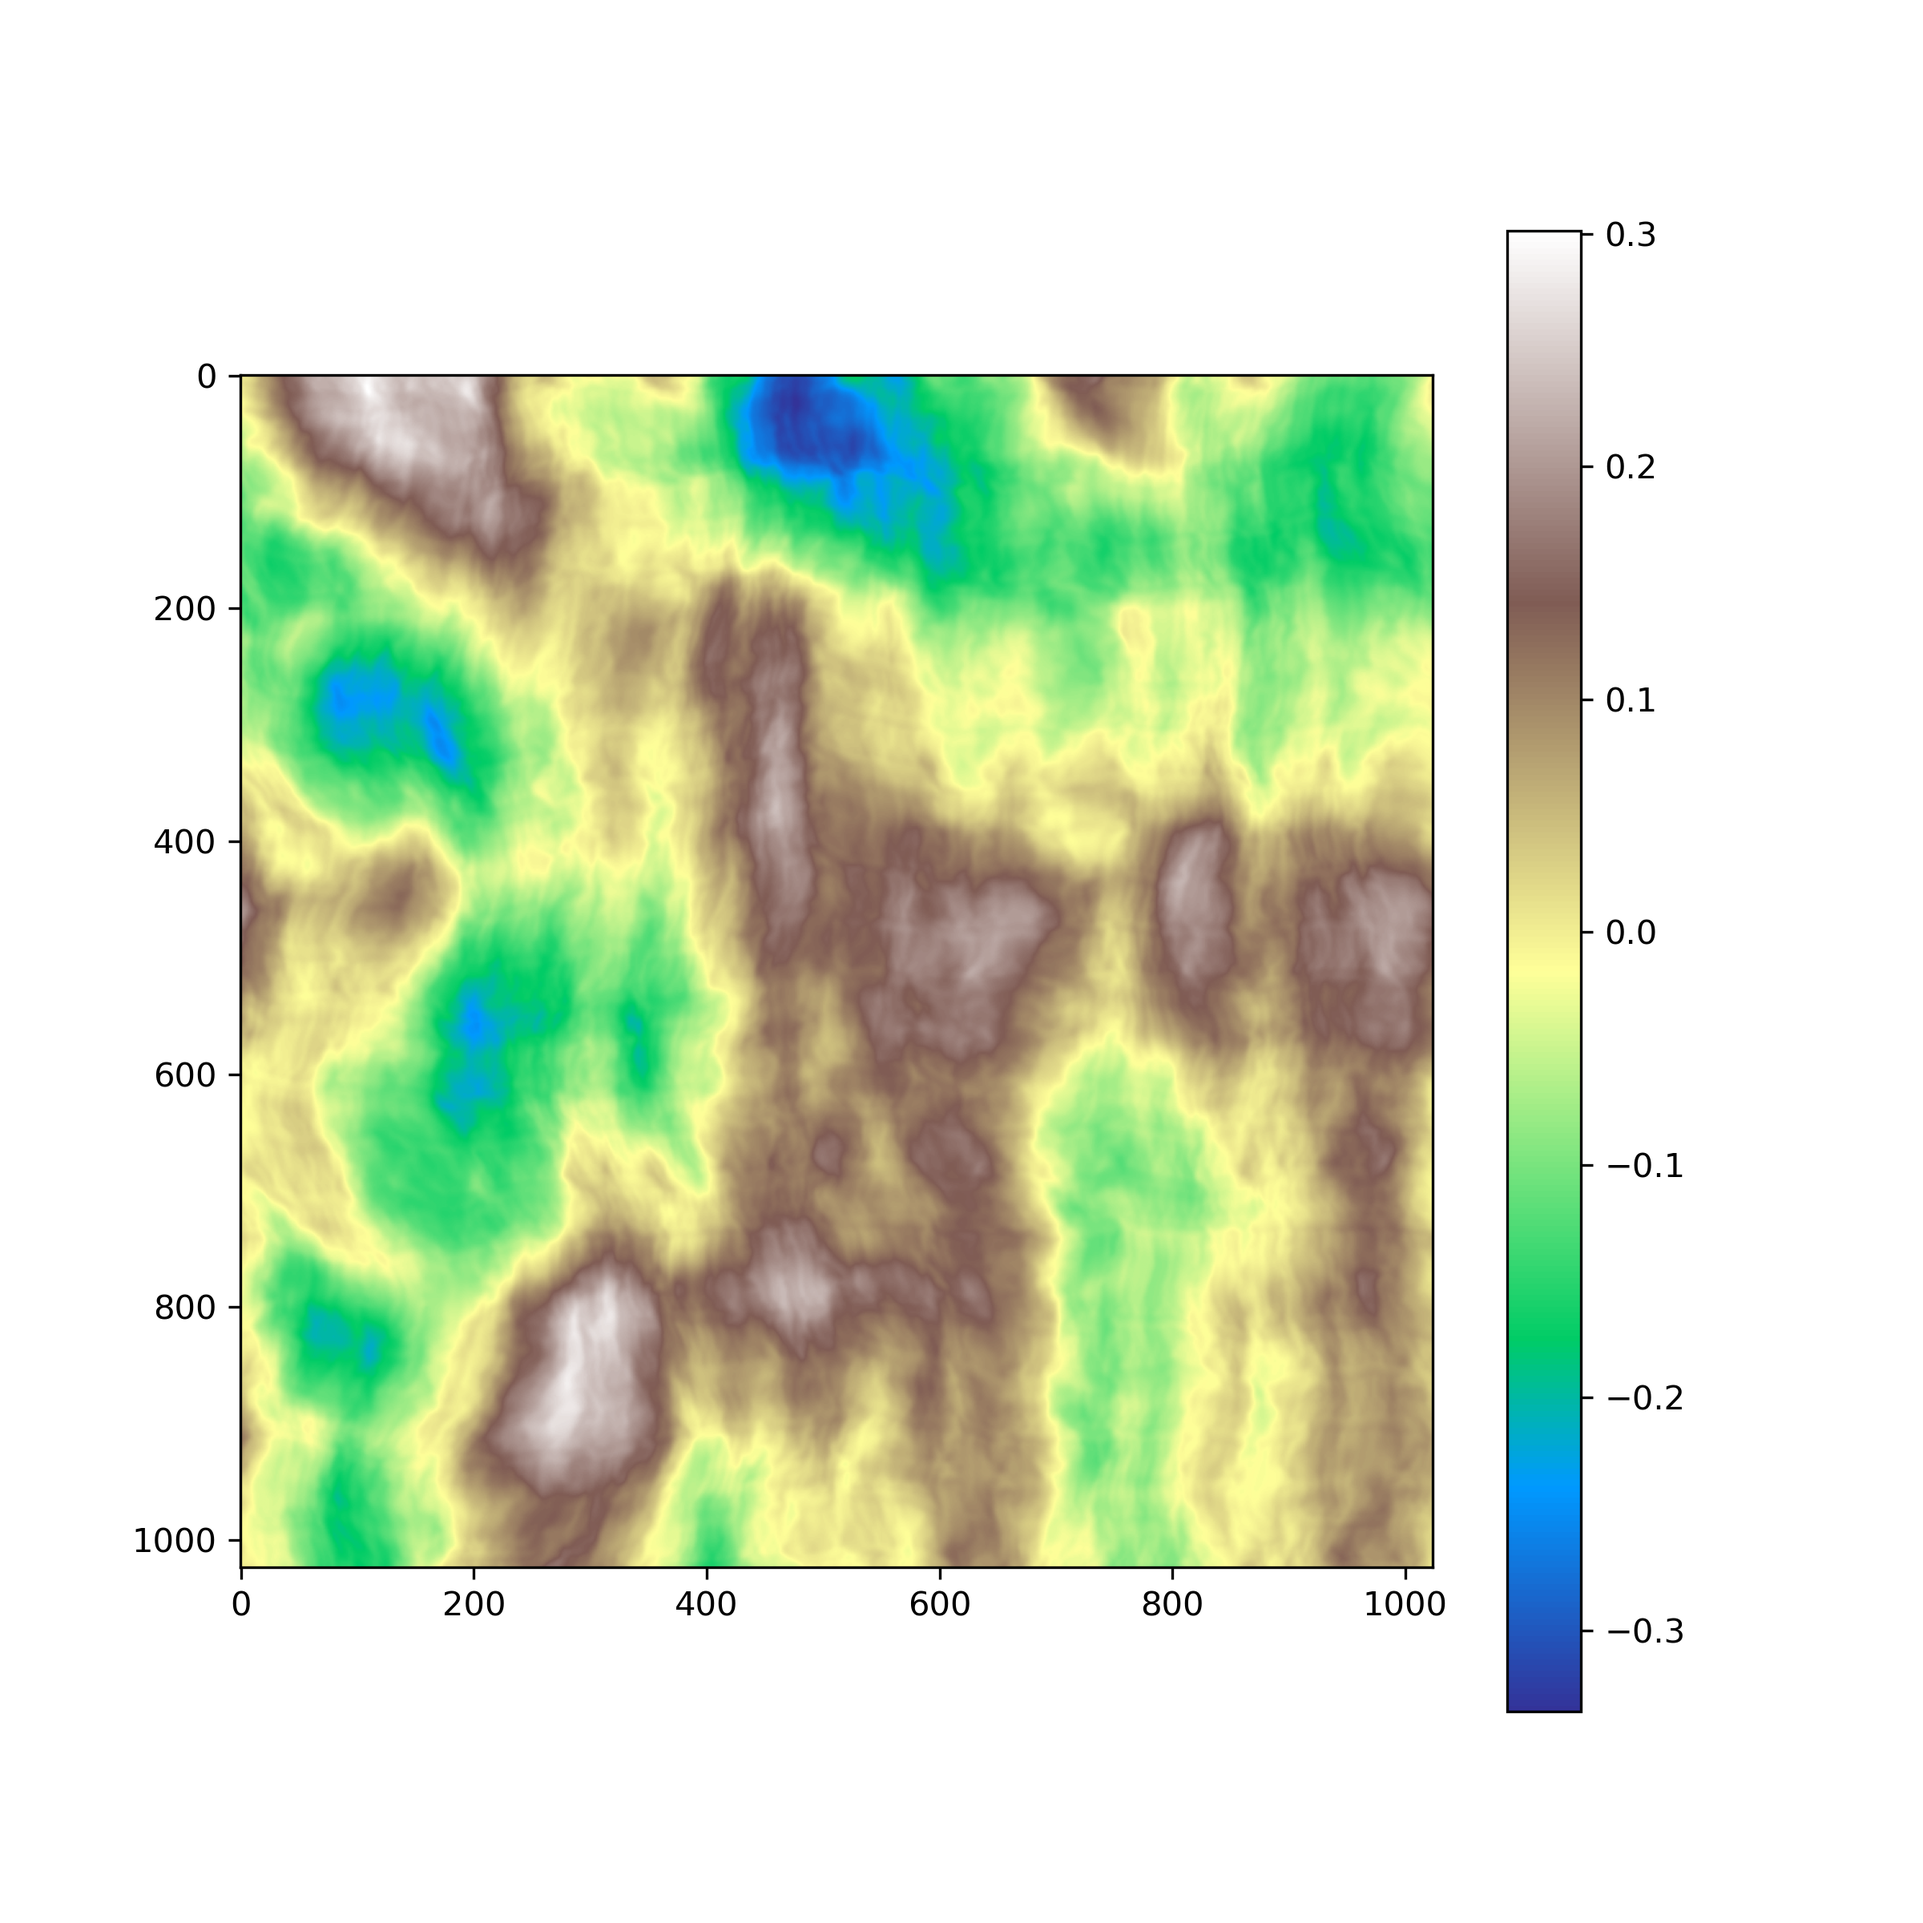
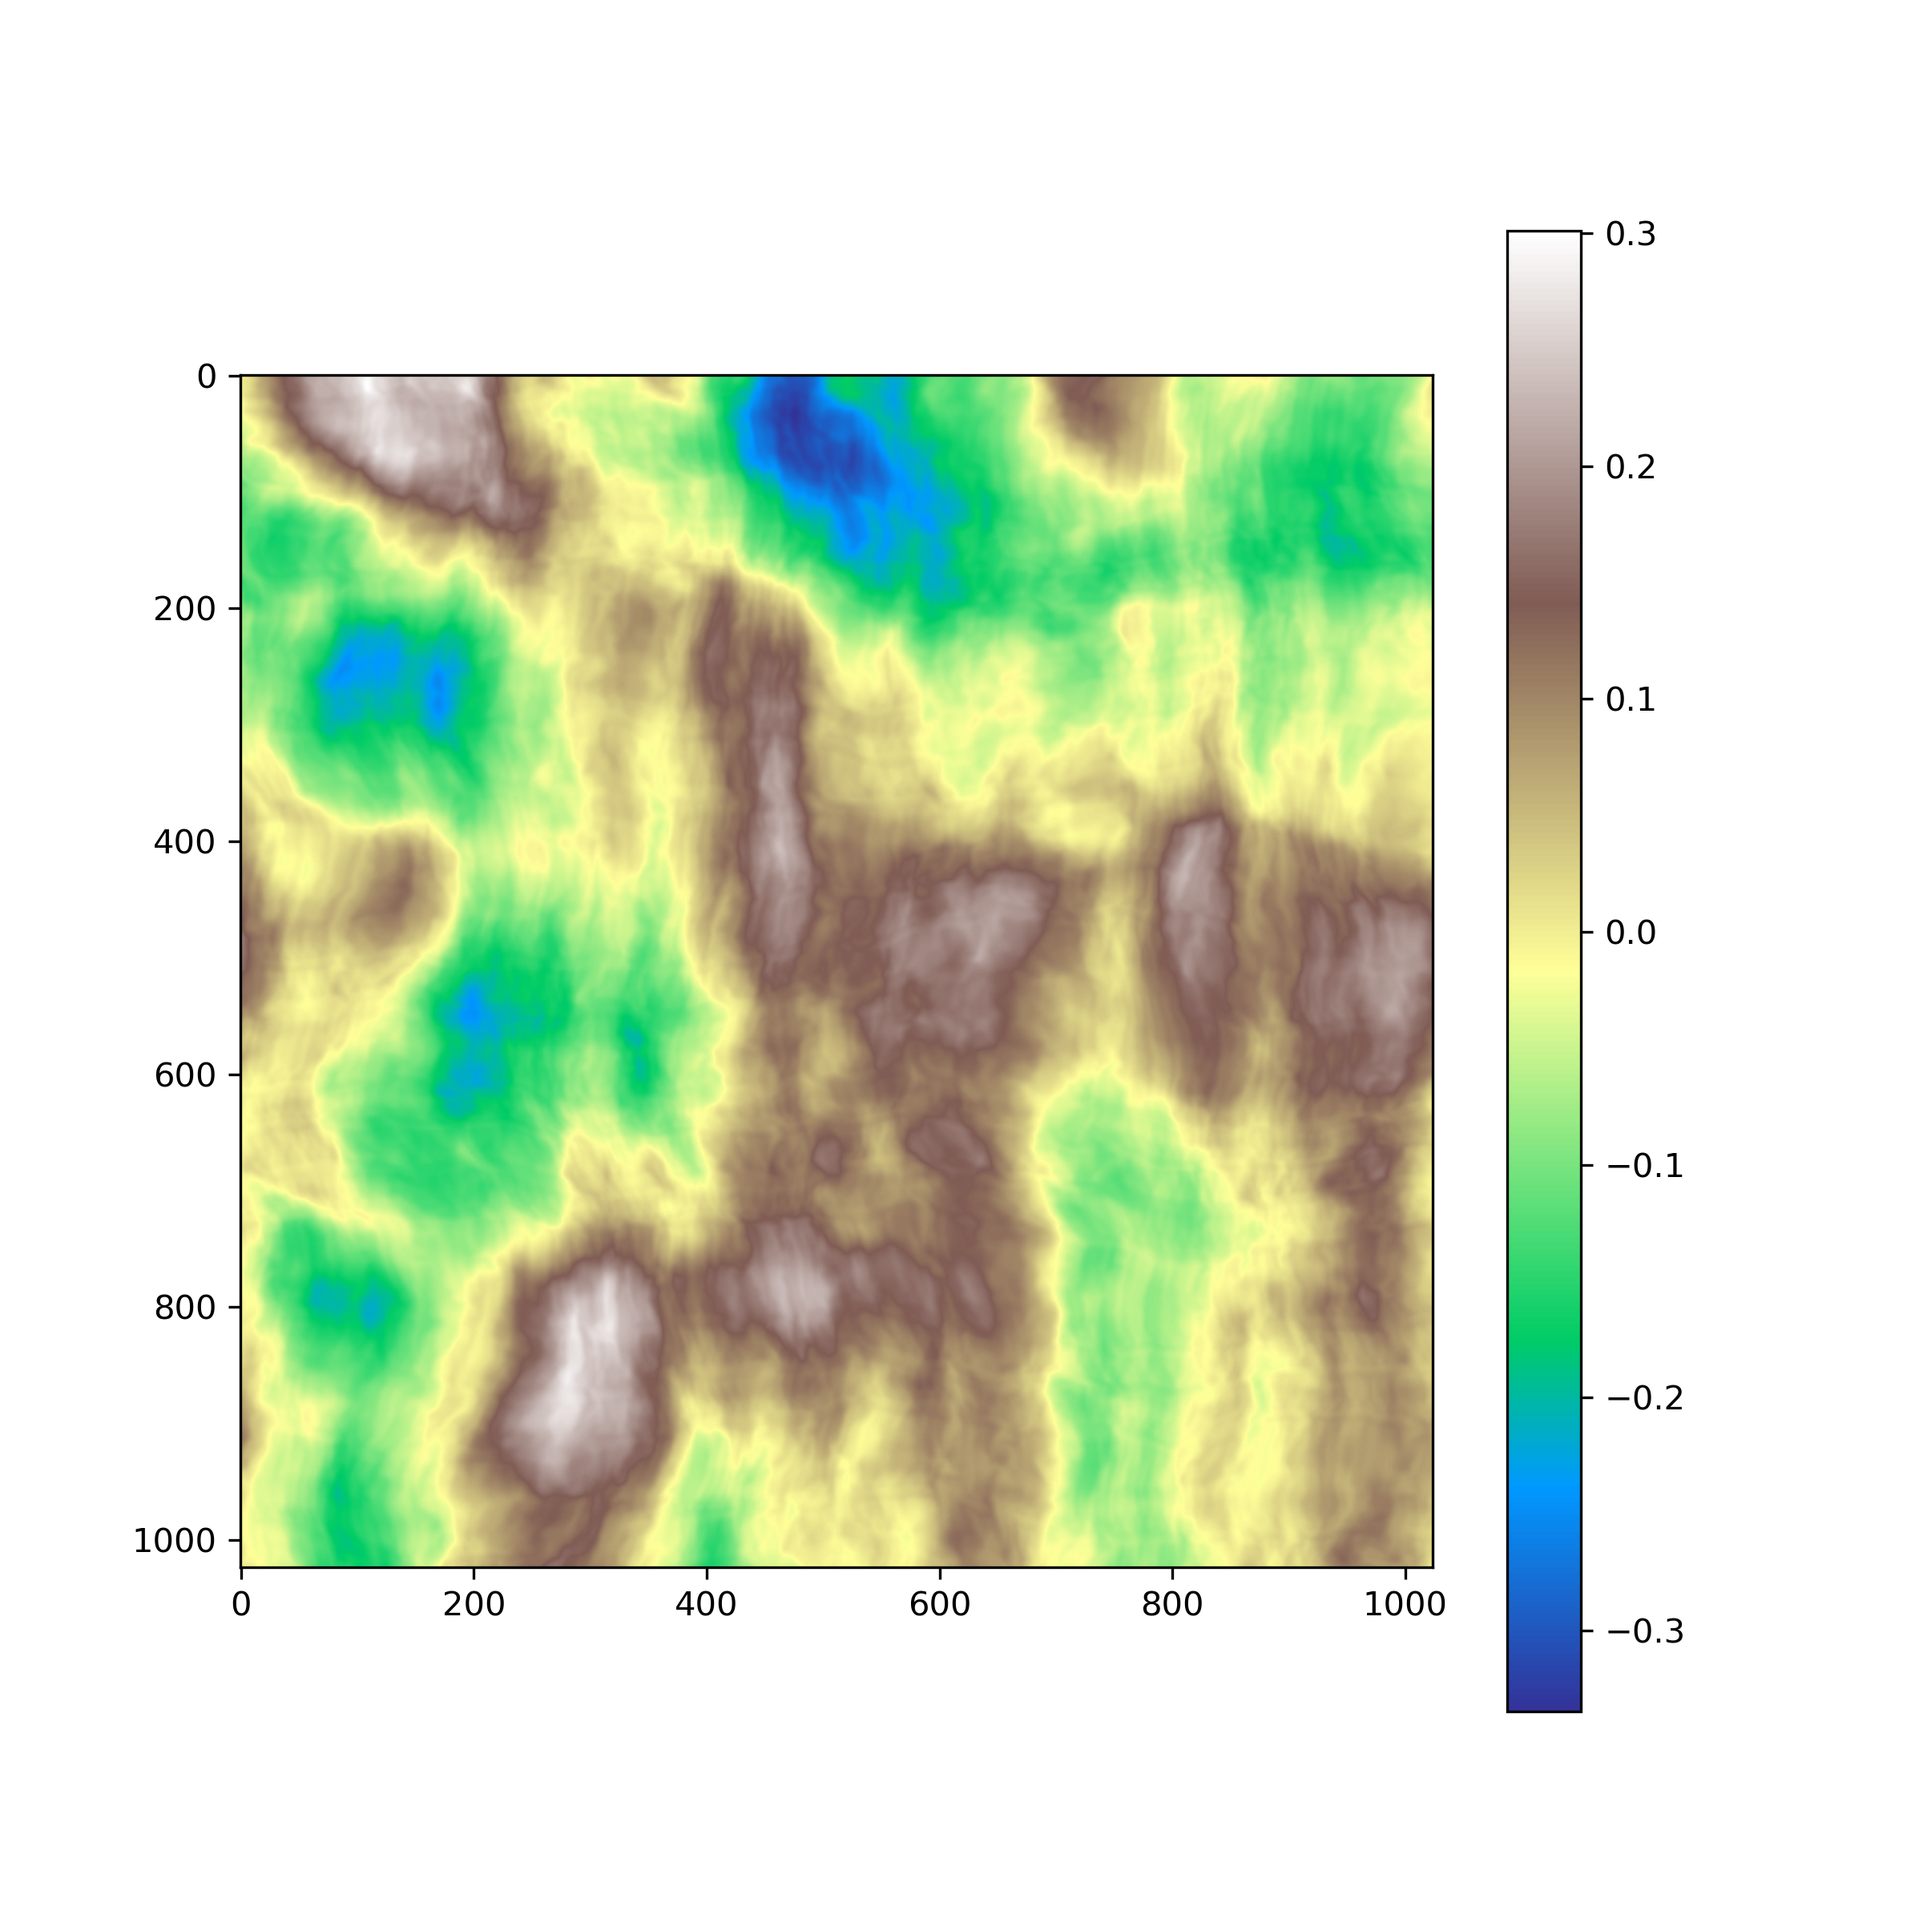
fixed bug

diff --git a/terrain.py b/terrain.py
@@ -27,8 +27,8 @@ def save_terrain(terrain:np.ndarray,
     size:int=4096
     center:int=1024
     min_grey:float=2**16/8
-    zero_grey:float=3**16/4
-    max_grey:float=7*2**16/8
+    zero_grey:float=2**16/4
+    max_grey:float=7*(2**16/8)
     tmax,tmin=terrain.max(),terrain.min()
     def f(t):
         if t<=0:
